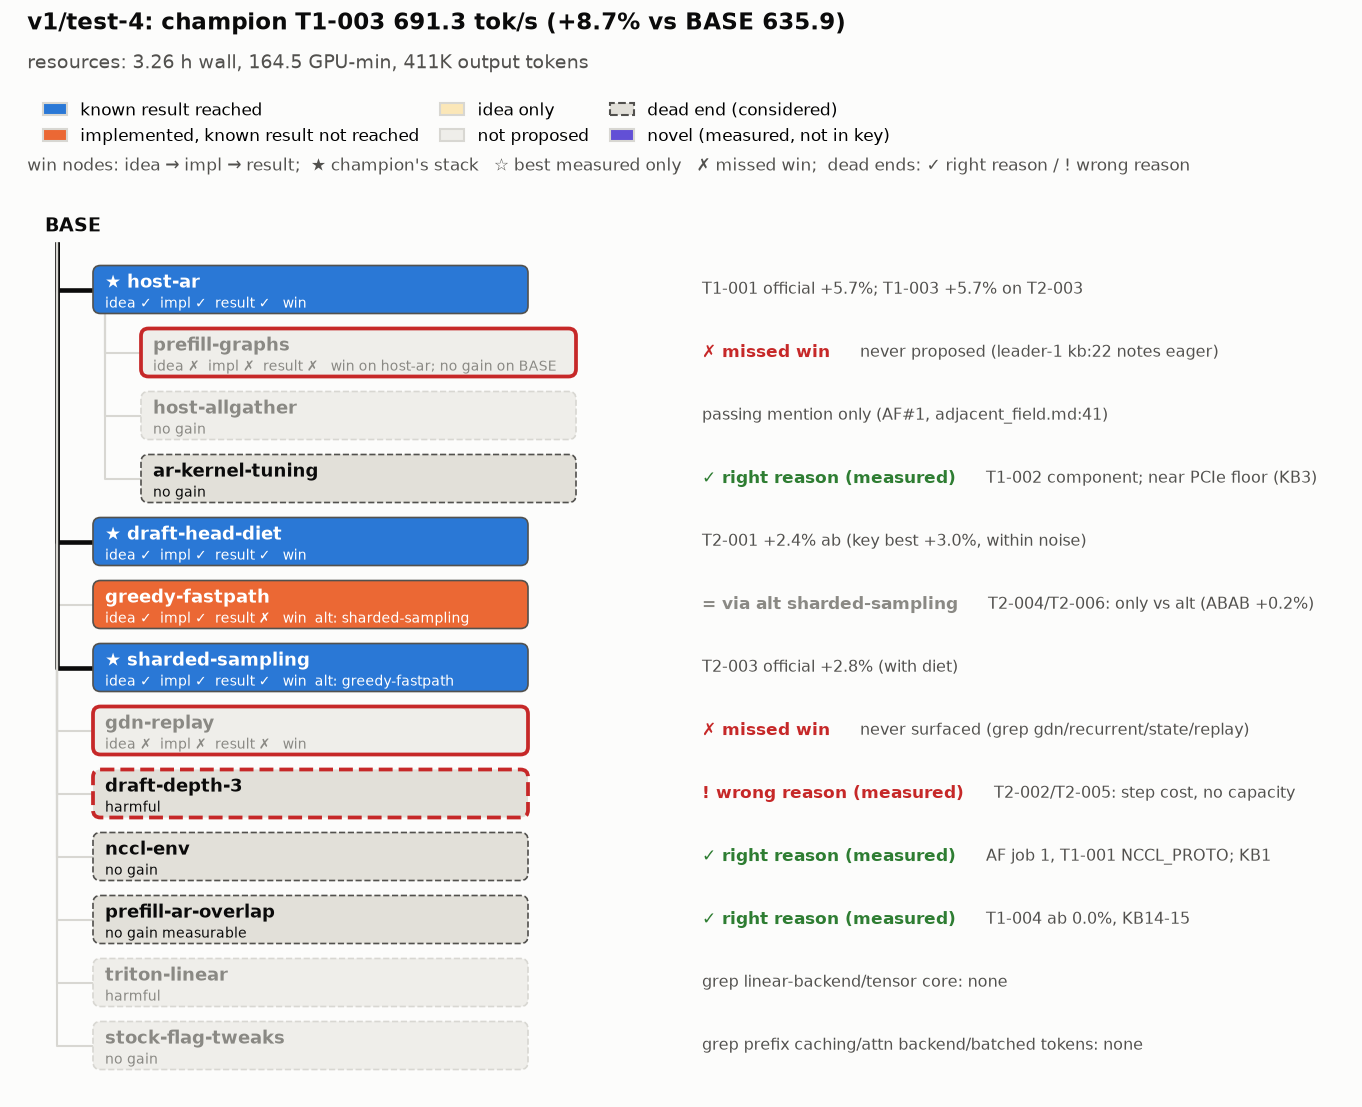
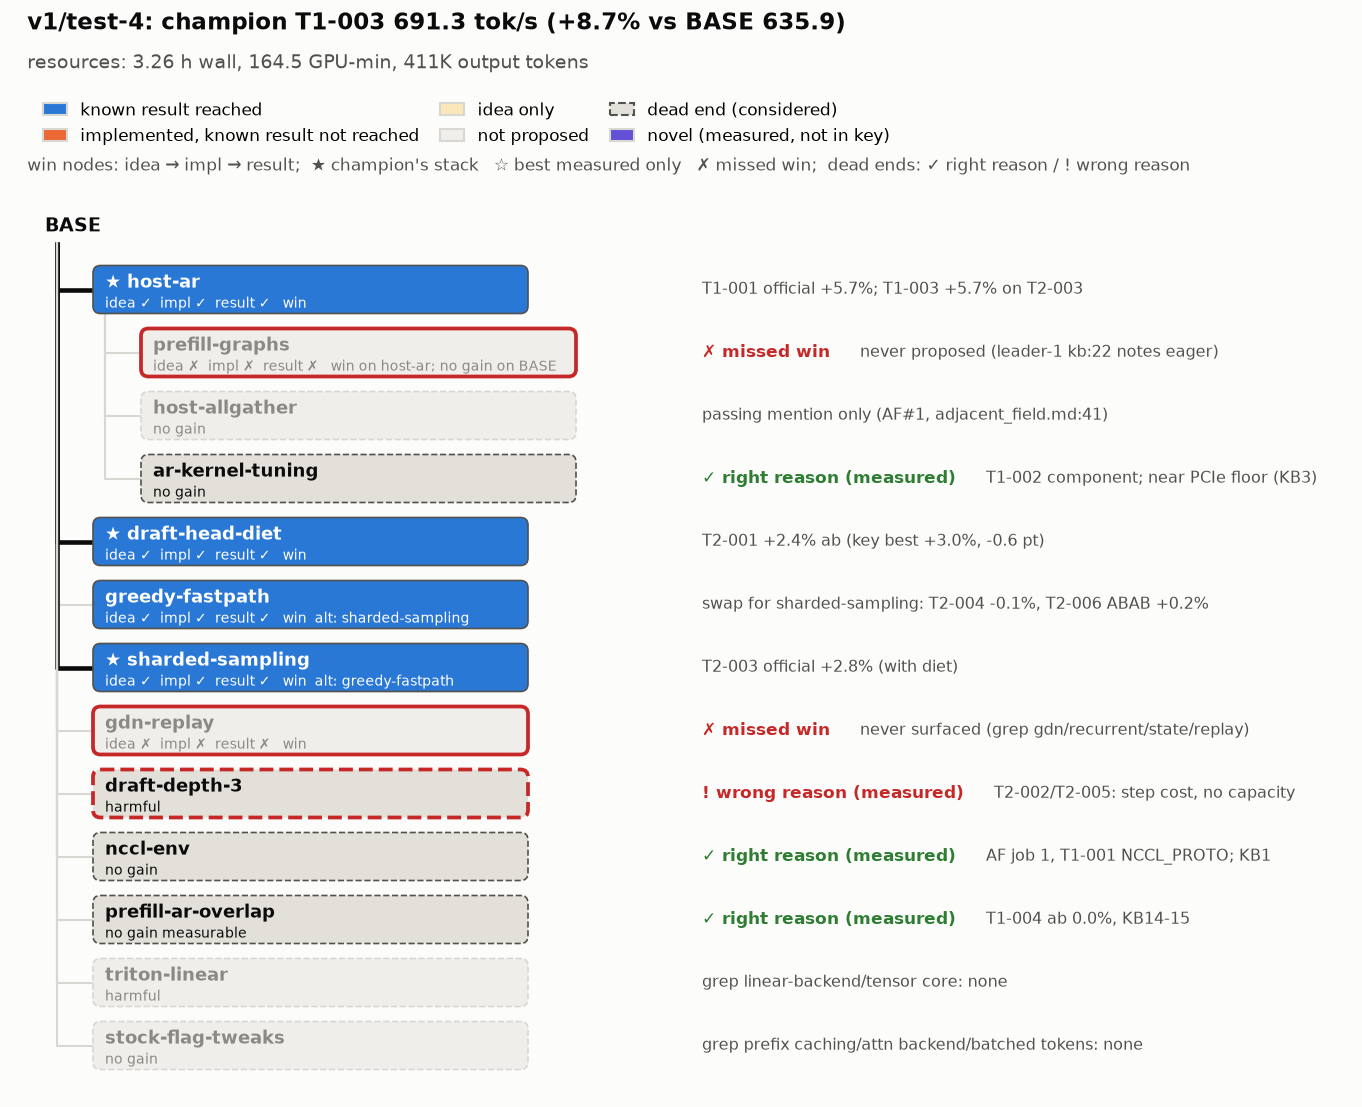
judge-c: labels re-checked against the tightened grading rules
Claude-Session: https://claude.ai/code/session_01BaZTWYRg5pNufZySJAy8QX

Changed region(s): [[0.0617, 0.5221, 0.4009, 0.5836], [0.5242, 0.5221, 0.9559, 0.5528], [0.7401, 0.4607, 0.8018, 0.4914]]

diff --git a/evals/v1/test-3/judge-c.md b/evals/v1/test-3/judge-c.md
@@ -78,17 +78,17 @@ BASE evals are in "round None" (5.7 min).
 ## Win nodes
 | node | idea | impl | result | base | run's result (strength) | missed? / wrong cause | evidence |
 |---|---|---|---|---|---|---|---|
-| host-ar | yes | yes | yes | BASE | +5.0% official (662.8 vs 631.4) | no | idea: `brainstorm/r1/adjacent_field.md:46` (Idea 1), `brainstorm/r1/systematic_engineer.md:88` (Idea 2). impl+result: `bank/T1-002` (host_staged_ar.{py,cu}, /dev/shm cudaHostRegister, bitwise == NCCL, official #1 662.8). Key best +5.7% official (test-4); 5.0 vs 5.7 is within the 3% noise, so yes. |
+| host-ar | yes | yes | yes | BASE | +5.0% official (662.8 vs 631.4) | no | idea: `brainstorm/r1/adjacent_field.md:46` (Idea 1), `brainstorm/r1/systematic_engineer.md:88` (Idea 2). impl+result: `bank/T1-002` (host_staged_ar.{py,cu}, /dev/shm cudaHostRegister, bitwise == NCCL, official #1 662.8). Key best +5.7% official (test-4); the bar is 5.7 − 1.6 = 4.1 points, and 5.0 ≥ 4.1, so yes. |
 | prefill-graphs | yes | yes | yes | host-ar (+ host-allgather) | +4.8% ab on host-ar (699.0 vs 666.8, same job); official 699.2 (T1-005) vs 662.8 (T1-002) | no | idea: `brainstorm/r1/systematic_engineer.md:61` (Idea 1, the exact flag). impl: T1-001 (on BASE, +2.2%, noise), T1-005 (on T1-004). Result equals the key's best (+4.8% ab, which comes from this run, KB4). |
 | draft-head-diet | yes | yes | yes | host-ar + prefill-graphs | +3.0% ab (718.0 vs 696.9 same job), acceptance 2.343 vs 2.340 | no | idea: `brainstorm/r1/adjacent_field.md:116` (Idea 4a, 4c), ideas.md R1-F/R1-I (lines 12, 15), `brainstorm/r2/systematic_engineer.md` Idea 1. impl: T1-006 (`use_local_argmax_reduction`), T1-007 (+ `draft_lm_head_quantization: fp8`). Equals the key's best (+3.0% ab). |
-| greedy-fastpath | yes | yes | yes | host-ar + prefill-graphs + draft-head-diet | +2.4% ab (732.6 vs 715.3); official 730.9 = +4.5% vs T1-005 (with draft-head-diet) | no | idea: `brainstorm/r1/adjacent_field.md:116` (Idea 4b), ideas.md R1-G (line 13). impl: T1-009 (LogitsProcessor.get_greedy_tokens, RejectionSampler.verify_greedy_ids; 25,511 real rows incl. 467 ties, 0 mismatches). Key's best ~+1.5-2%; +2.4% ab meets it. |
+| greedy-fastpath | yes | yes | yes | host-ar + prefill-graphs + draft-head-diet | +2.4% ab (732.6 vs 715.3); official 730.9 = +4.5% vs T1-005 (with draft-head-diet) | no | idea: `brainstorm/r1/adjacent_field.md:116` (Idea 4b), ideas.md R1-G (line 13). impl: T1-009 (LogitsProcessor.get_greedy_tokens, RejectionSampler.verify_greedy_ids; 25,511 real rows incl. 467 ties, 0 mismatches). Key's best ~+1.5-2%; +2.4% ab is above it (bar ≤ 0.4 points). |
 | sharded-sampling | no | no | no | - | none | covered by its alternative greedy-fastpath (passed result); not a miss | searched `grep -rniE "sharded.sampl\|batch_sharded\|batch-sharded"` over brainstorm, reports, local_kb, bank, KB, ideas, journal: no hits. The only nearby text is T1-009's eligibility list excluding the "batch sharder" (`bank/T1-009/record.md`), which is not a proposal. |
 | gdn-replay | yes | yes | yes | T1-009 stack | +2.6% official (749.7 vs 730.9); ab +2.2% (712.4 vs 697.3) | no (not promoted only because of the 3% bar, a run rule) | idea: `brainstorm/r1/systematic_engineer.md:191` (Idea 6), R2-B (`brainstorm/r2/adjacent_field.md` Idea 1), R3-B. impl+result: `bank/T1-012` (csrc gdn_decode_replay_kernel + flush kernel, bitwise unit test with negative control). Equals the key's best (+2.6% official). ☆ best measured. |
 
 ## Dead-end nodes
 | node | reason | how | run's stated reason vs the key's cause | evidence |
 |---|---|---|---|---|
-| host-allgather | right (see ambiguity) | measured | Run: "works and exact, but a ~1% effect, not measurable against 3% noise. Kept as a building block". Key: ~0 `ab`, "Kept in test-3's stack as a neutral, exact building block (not a contradiction)". Same conclusion. | `bank/T1-004`, KB6 |
+| host-allgather | right | measured | Run: "works and exact, but a ~1% effect, not measurable against 3% noise. Kept as a building block". Key: ~0 `ab`, "Kept in test-3's stack as a neutral, exact building block (not a contradiction)". Same conclusion. A stated neutral building block is not wrong (EVAL.md). | `bank/T1-004`, KB6 |
 | ar-kernel-tuning | right | measured | Run: chunk pipelining loses (K=2..8 slower), each chunk fence ~5 us, chain "near its floor", <2% left, not recommended. Key: host-ar within ~5-10 us of the PCIe floor (F3). Same. | `bank/T1-003` (b), KB5 |
 | draft-depth-3 | right | measured | T1-008: -6.9% ab, TTFT p50 210→792 ms, "cause not diagnosed" (KB11). Round 3 diagnosed it from T1-008's own log as capacity (Running 14 / Waiting 2; 10 vs 13 GDN blocks per request, KB13), retried with more KV (T1-010: OOM at graph capture; T1-011: runtime OOM) and concluded "k=3 at c=16 needs smaller per-request state, not more KV" (KB16, T1-011). k=4 ruled out by the Marlin M=80 cliff (KB14). Key's cause: capacity/admission (F5), memory ceiling (F6). The final reason matches. | `bank/T1-008`, `T1-010`, `T1-011`; KB11, KB13, KB16, KB17 |
 | nccl-env | right | measured (component) | bs-r1-adjacent_field microbench: Simple / LL128 / 8 / 16 channels, at most -6% at prefill size, worse at decode size; "a flag-only approach is ruled out". Key: no gain `component`. Same. | `brainstorm/r1/adjacent_field.md:20-34,141`; ideas.md:9 (R1-C) |
@@ -116,7 +116,7 @@ BASE evals are in "round None" (5.7 min).
     correctly not promoted; the manager flagged it for the human (`journal.md:18`). It was idea'd in round 1
     (SE Idea 6, scored N4/U2) and waited two rounds: with one leader, the manager chose to continue the winning
     comms/logits line (search-policy rule 1) over the novel slot (`journal.md:11`).
-  - **draft-depth-3 cause, first wrong then corrected.** T1-008 was dropped in round 2 with "cause not
+  - **draft-depth-3 cause, first missing then corrected** (graded on the final reason, per EVAL.md). The reason was missing for about one round: undiagnosed from the round-2 drop (T1-008, 01:40Z) until the round-3 brainstorms (KB13, ~02:09Z). T1-008 was dropped in round 2 with "cause not
     diagnosed" / "TTFT blows up" (KB11). The leader had not read the scheduler's Running/Waiting lines
     (`local_kb/leader-1.md`, round-3 "Lesson"). Both r3 brainstormers found the capacity cause from the existing
     log (KB13) at no GPU cost, so the final drop reason is right.
@@ -145,9 +145,7 @@ BASE evals are in "round None" (5.7 min).
    saves ~1.3% of Marlin time at M=48 in isolation (`v1/test-3:agents/bs-r3-systematic_engineer/mb/gpu0.out`);
    note the probable precision change. Also the config microbench there: M=64 costs +1.56 ms/step over M=48
    (already in KB14 / F-list).
-2. `draft-depth-3` grading note: this run is an example of a drop whose first stated cause was "undiagnosed"
-   (KB11) and later corrected to capacity (KB13). Suggest saying which reason counts when a run revises it (I
-   graded the final one).
+2. (Withdrawn: EVAL.md now says to grade a revised reason by its final version.)
 3. `host-allgather`: confirmed (no new evidence). `prefill-graphs`: an official-vs-official number is
    available, T1-005 699.2 vs T1-002 662.8 (+5.5%, though T1-005 also has host-allgather, ~0).
 4. No new nodes, no overturned dead ends. Unmeasured ideas from this run are already in the key's `ideas.md`
@@ -155,13 +153,8 @@ BASE evals are in "round None" (5.7 min).
    flashinfer-pcie-ar, spec-glue-graph R1-H).
 
 ## Ambiguous calls
-- **host-allgather "right".** The definition says wrong includes "kept it in the stack as if it helped". The
-  run kept it while saying it is within noise (~1%). The key explicitly says this is "not a contradiction", so I
-  graded right. A stricter reading would make it wrong.
+(Re-checked against the tightened EVAL.md: 1.6-point result tolerance, the alternative-swap rule, the neutral-block rule and the final-reason rule. No label changed. host-ar now passes on the 1.6-point bar (5.0 vs 5.7), not on the old 3% noise. The host-allgather and draft-depth-3 calls are now explicit in the definitions and no longer ambiguous. sharded-sampling was never measured, even as a swap, so it stays "covered by its alternative".)
 - **triton-linear "not considered".** The only mention is a one-line rule-out of W8A8 as forbidden. "Right"
   needs "a reason the key's cause and facts support"; a validity reason is neither the key's cause nor
   contradicted by it. I used the stricter label, not considered, and the node was out of bounds by the human's
   task definition.
-- **draft-depth-3.** The definition grades "the run's reason" but doesn't say which one when the run revises
-  it. The reason at the round-2 drop was "cause not diagnosed" (incomplete per the key's grading note). The
-  final reason in round 3 cites capacity. I graded the final reason as right.

diff --git a/evals/v1/test-4/judge-c.md b/evals/v1/test-4/judge-c.md
@@ -61,14 +61,16 @@ Brainstormer profiling (19.8 GPU-min) is charged to no team.
 ![overlay](overlay.png)
 
 ## Win nodes
+Re-graded against the tightened EVAL.md (result = run gain >= key best - 1.6 pt; swap rule for alternatives; neutral-block rule; final-reason rule). Change: greedy-fastpath result no -> yes via the swap rule. All other labels unchanged.
+
 Base ids are key ids.
 
 | node | idea | impl | result | base | run's result (strength) | missed? / wrong cause | evidence |
 |---|---|---|---|---|---|---|---|
 | host-ar | yes | yes | yes | BASE; also BASE+draft-head-diet+sharded-sampling | +5.7% official (T1-001); +5.7% official on T2-003's stack (T1-003 691.3 vs 653.9) | - | idea: brainstorm/r1/systematic_engineer.md:60-79 (#2), adjacent_field.md:33-62 (#1), scores.md R1-A. impl+result: bank/T1-001/record.md (microbench, bitwise test, A/Bs +4.1/+5.2%, official 672.5). Matches the key's best (+5.7%), which comes from this run. |
 | prefill-graphs | no | no | no | - | none | **missed** (never proposed) | Searched `prefill_cudagraph\|max_prefill\|cudagraph_capture\|capture.?size\|eager\|prefill.*graph` over bank, shared_kb, ideas, brainstorm, journal, local_kb, reports, agents/*.md. Closest: local_kb/leader-1.md:22 "graphs <=96 tokens; prefill steps eager" (an observation, not a proposal) and local_kb/leader-2.md:18 "Check the cudagraph capture sizes ..." (asked about TTFT p99, not a proposal to graph prefill steps). |
-| draft-head-diet | yes | yes | yes | BASE | +2.4% ab on BASE (T2-001, 608.0 vs 593.6). Also +2.8% official together with sharded-sampling (T2-003) | - | idea: systematic_engineer.md:34-58 (#1), adjacent_field.md:181-197 (#2a, 2c). impl: T2-001 serve_args, with log lines "Quantized a fp8 copy of the lm_head" and "Using local argmax reduction" (bank/T2-001/record.md). result: the key's best is +3.0% ab (test-3, on host-ar+prefill-graphs). +2.4% is within ~0.6 pt of that, inside noise (TASK.md:15-17), so yes. Close call: T2-001 itself calls its +2.4% "within noise" vs BASE. The key's own BASE entry is this measurement. |
-| greedy-fastpath | yes | yes | no | BASE+draft-head-diet (T2-004); host-ar+draft-head-diet (T2-006) | Measured only against its alternative: = sharded-sampling (T2-004 633.5 vs 634.4 same job); +1.2% official / +0.2% ABAB vs T1-003 (T2-006) | **covered by alt** (sharded-sampling passed) | idea: systematic_engineer.md:81-94 (#3), adjacent_field.md:185-187 (#2b). impl: T2-004 (0/9600 mismatches, server run with the fast-path log line). result no: no arm isolated its gain over a stack without either path. Its alternative was always on the other side, so the key's ~+1.5-2% was never measured as a gain. Strict reading. |
+| draft-head-diet | yes | yes | yes | BASE | +2.4% ab on BASE (T2-001, 608.0 vs 593.6). Also +2.8% official together with sharded-sampling (T2-003) | - | idea: systematic_engineer.md:34-58 (#1), adjacent_field.md:181-197 (#2a, 2c). impl: T2-001 serve_args, with log lines "Quantized a fp8 copy of the lm_head" and "Using local argmax reduction" (bank/T2-001/record.md). result: the key's best is +3.0% ab (test-3); +2.4% >= 3.0 - 1.6 pt, so yes (this is EVAL.md's own example). |
+| greedy-fastpath | yes | yes | yes | BASE+draft-head-diet (T2-004); host-ar+draft-head-diet (T2-006) | measured only as a swap for sharded-sampling: equal (T2-004 633.5 vs T2-003 634.4 same job, -0.1%); T2-006 vs T1-003 +0.2% ABAB (job 26), +1.2% official | - (passes via EVAL.md swap rule: equal within 1.6 pt to its alternative, which passed result) | idea: systematic_engineer.md:81-94 (#3), adjacent_field.md:185-187 (#2b). impl: T2-004 (0/9600 mismatches, fast-path log line on both ranks in server). result: bank/T2-004/record.md performance line; bank/T2-006/record.md ABAB block; sharded-sampling passed result (row below). |
 | sharded-sampling | yes | yes | yes | BASE+draft-head-diet | +2.8% official for draft-head-diet + sharded-sampling (T2-003 653.9); alone over T2-001 +1.4% ab (616.5 vs 608.0, job 1) | - | idea: local_kb/leader-2.md:3-4 ("Existing flag --enable-batch-sharded-sampling ... Testing as arm E"), with hypothesis in bank/T2-003/record.md. impl+result: T2-003 official. The key's only result for this node is this measurement. |
 | gdn-replay | no | no | no | - | none | **missed** (never surfaced) | Searched `gdn\|recurrent\|mamba state\|ssm state\|spec.?state\|replay` over the same files. GDN appears only as a profile line item (KB10; bank/T1-003/profiles/anatomy.md:13; REPORT_job1.md:20 "GDN +0.8 ms at depth 3"). No proposal to change GDN state writes. |
 
@@ -98,8 +100,7 @@ T2-007 is analysis only, with no change (bank/T2-007/record.md). adjacent_field'
 ## Why missed
 - **prefill-graphs** (stopped before idea). The closest approach was in round 2: leader-1 read the engine config and wrote "graphs <=96 tokens; prefill steps eager" (local_kb/leader-1.md:22) while setting up T1-004. T2-005 also measured prefill-containing steps at 35-38% of wall (REPORT_job1.md:28). The run treated the eager prefill steps only as the place to overlap ARs (T1-004). It never asked whether graphing them would help. Round 2 had no brainstorm (both slots went to the leaders' own "next" under rule 1), and that was the last round, so no one could surface it. Summary: never surfaced. A fact sitting in a local KB was not turned into an idea.
 - **gdn-replay** (stopped before idea). The closest approach: GDN cost was profiled (KB10 "GDN decode ~2.4-3.7"; bank/T1-003/profiles/anatomy.md) and seen to grow with depth (REPORT_job1.md:20, +0.8 ms). Neither brainstormer proposed changing GDN spec-state handling. Both ranked GDN below AR, Marlin and the lm_head. Summary: never surfaced. It is a small item in the profile, and there was no second brainstorm.
-- **greedy-fastpath** (stopped at implementation; covered by its alternative). It was always A/B'd against sharded-sampling, never against a stack with neither. That was a sensible choice, since it is a drop-in alternative.
-- **draft-depth-3, wrong reason.** It was dropped twice on measurements (T2-002, T2-005), which was the right decision. The explanation was step cost plus prefill dilution, and the TTFT jump was left "cause not established" (KB13). The worker noticed that decode time moved into queueing (REPORT_job1.md:30) but never checked the scheduler's running/waiting counts or KV blocks per request. That check would have exposed the capacity cause (F5). The diagnosis stopped one step short.
+- **draft-depth-3, wrong reason** (graded on the final reason, KB13 / T2-005). It was dropped twice on measurements (T2-002, T2-005), which was the right decision. The explanation was step cost plus prefill dilution, and the TTFT jump was left "cause not established" (KB13). The worker noticed that decode time moved into queueing (REPORT_job1.md:30) but never checked the scheduler's running/waiting counts or KV blocks per request. That check would have exposed the capacity cause (F5). The diagnosis stopped one step short.
 
 ## Process notes
 - **Diversity.** Round 1 ran 2 directions (AR, drafter/head), both the two brainstormers' top bets. Marlin, L2 prefetch and NCCL env went to ideas.md, each with measured reasons (scores.md). Round 2 ran both leaders' own next steps (prefill AR overlap; depth-3 cost / decode idle). Both were second steps along round-1 lines, with no new axis, because of rule 1 and no brainstorm. GDN, compilation/graphs, scheduler and memory were never explored.
@@ -114,6 +115,7 @@ T2-007 is analysis only, with no change (bank/T2-007/record.md). adjacent_field'
   - T2-005's depth-3 re-test was a profiling job that was needed to close the question. It did not pin down the cause.
   - T1-004 cost ~27 GPU-min plus a C++ build for a null result. It was an honest test of the leader's own estimate.
   - T2 used 29.6 of 55 GPU-min in r1 and gave the rest to T1; T1 left 29.2 unused (journal.md:11).
+- **Reason timeline (depth 3).** The reason was never revised to the capacity cause: "step cost" in r1 (T2-002, KB6), "prefill dilution; TTFT cause unknown" in r2 (T2-005, KB13), standing to the end of the run.
 - **Rules.** I found no violations. FP8 draft head was ruled allowed by the manager under the human's allowances (journal.md:8). Exactness was checked for every promoted change (bitwise AR; drafter-only FP8).
 
 ## Key updates (proposed)
